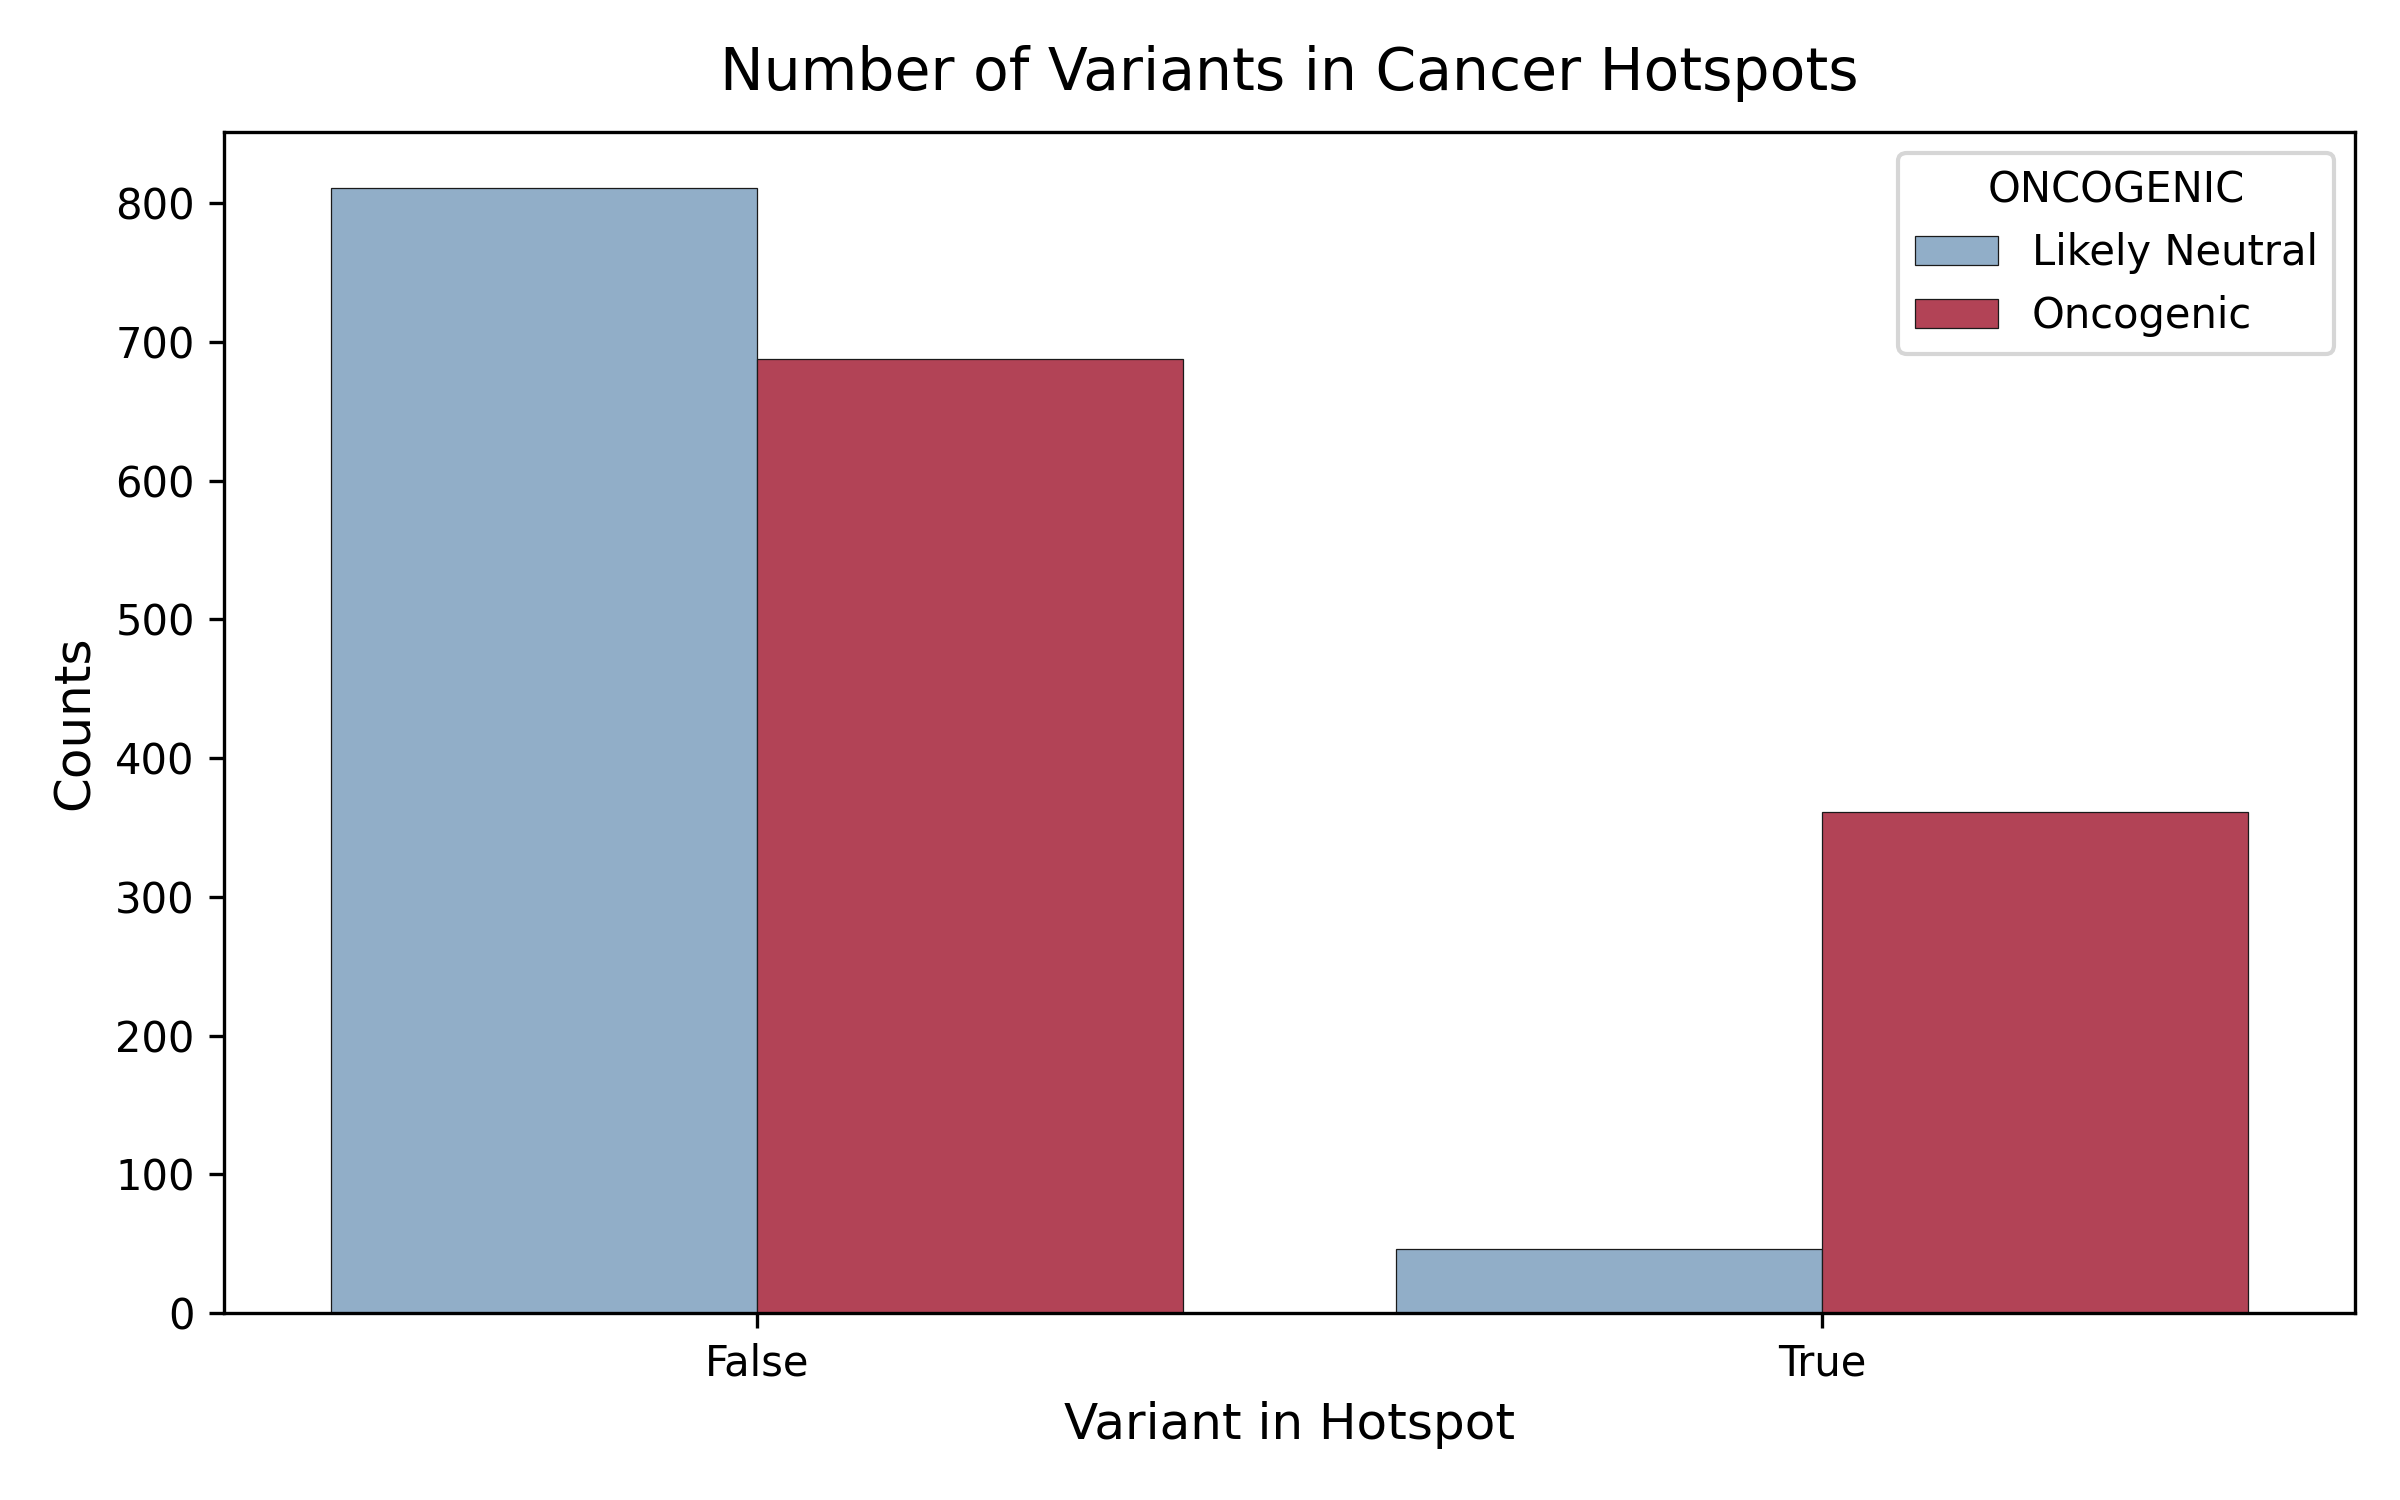
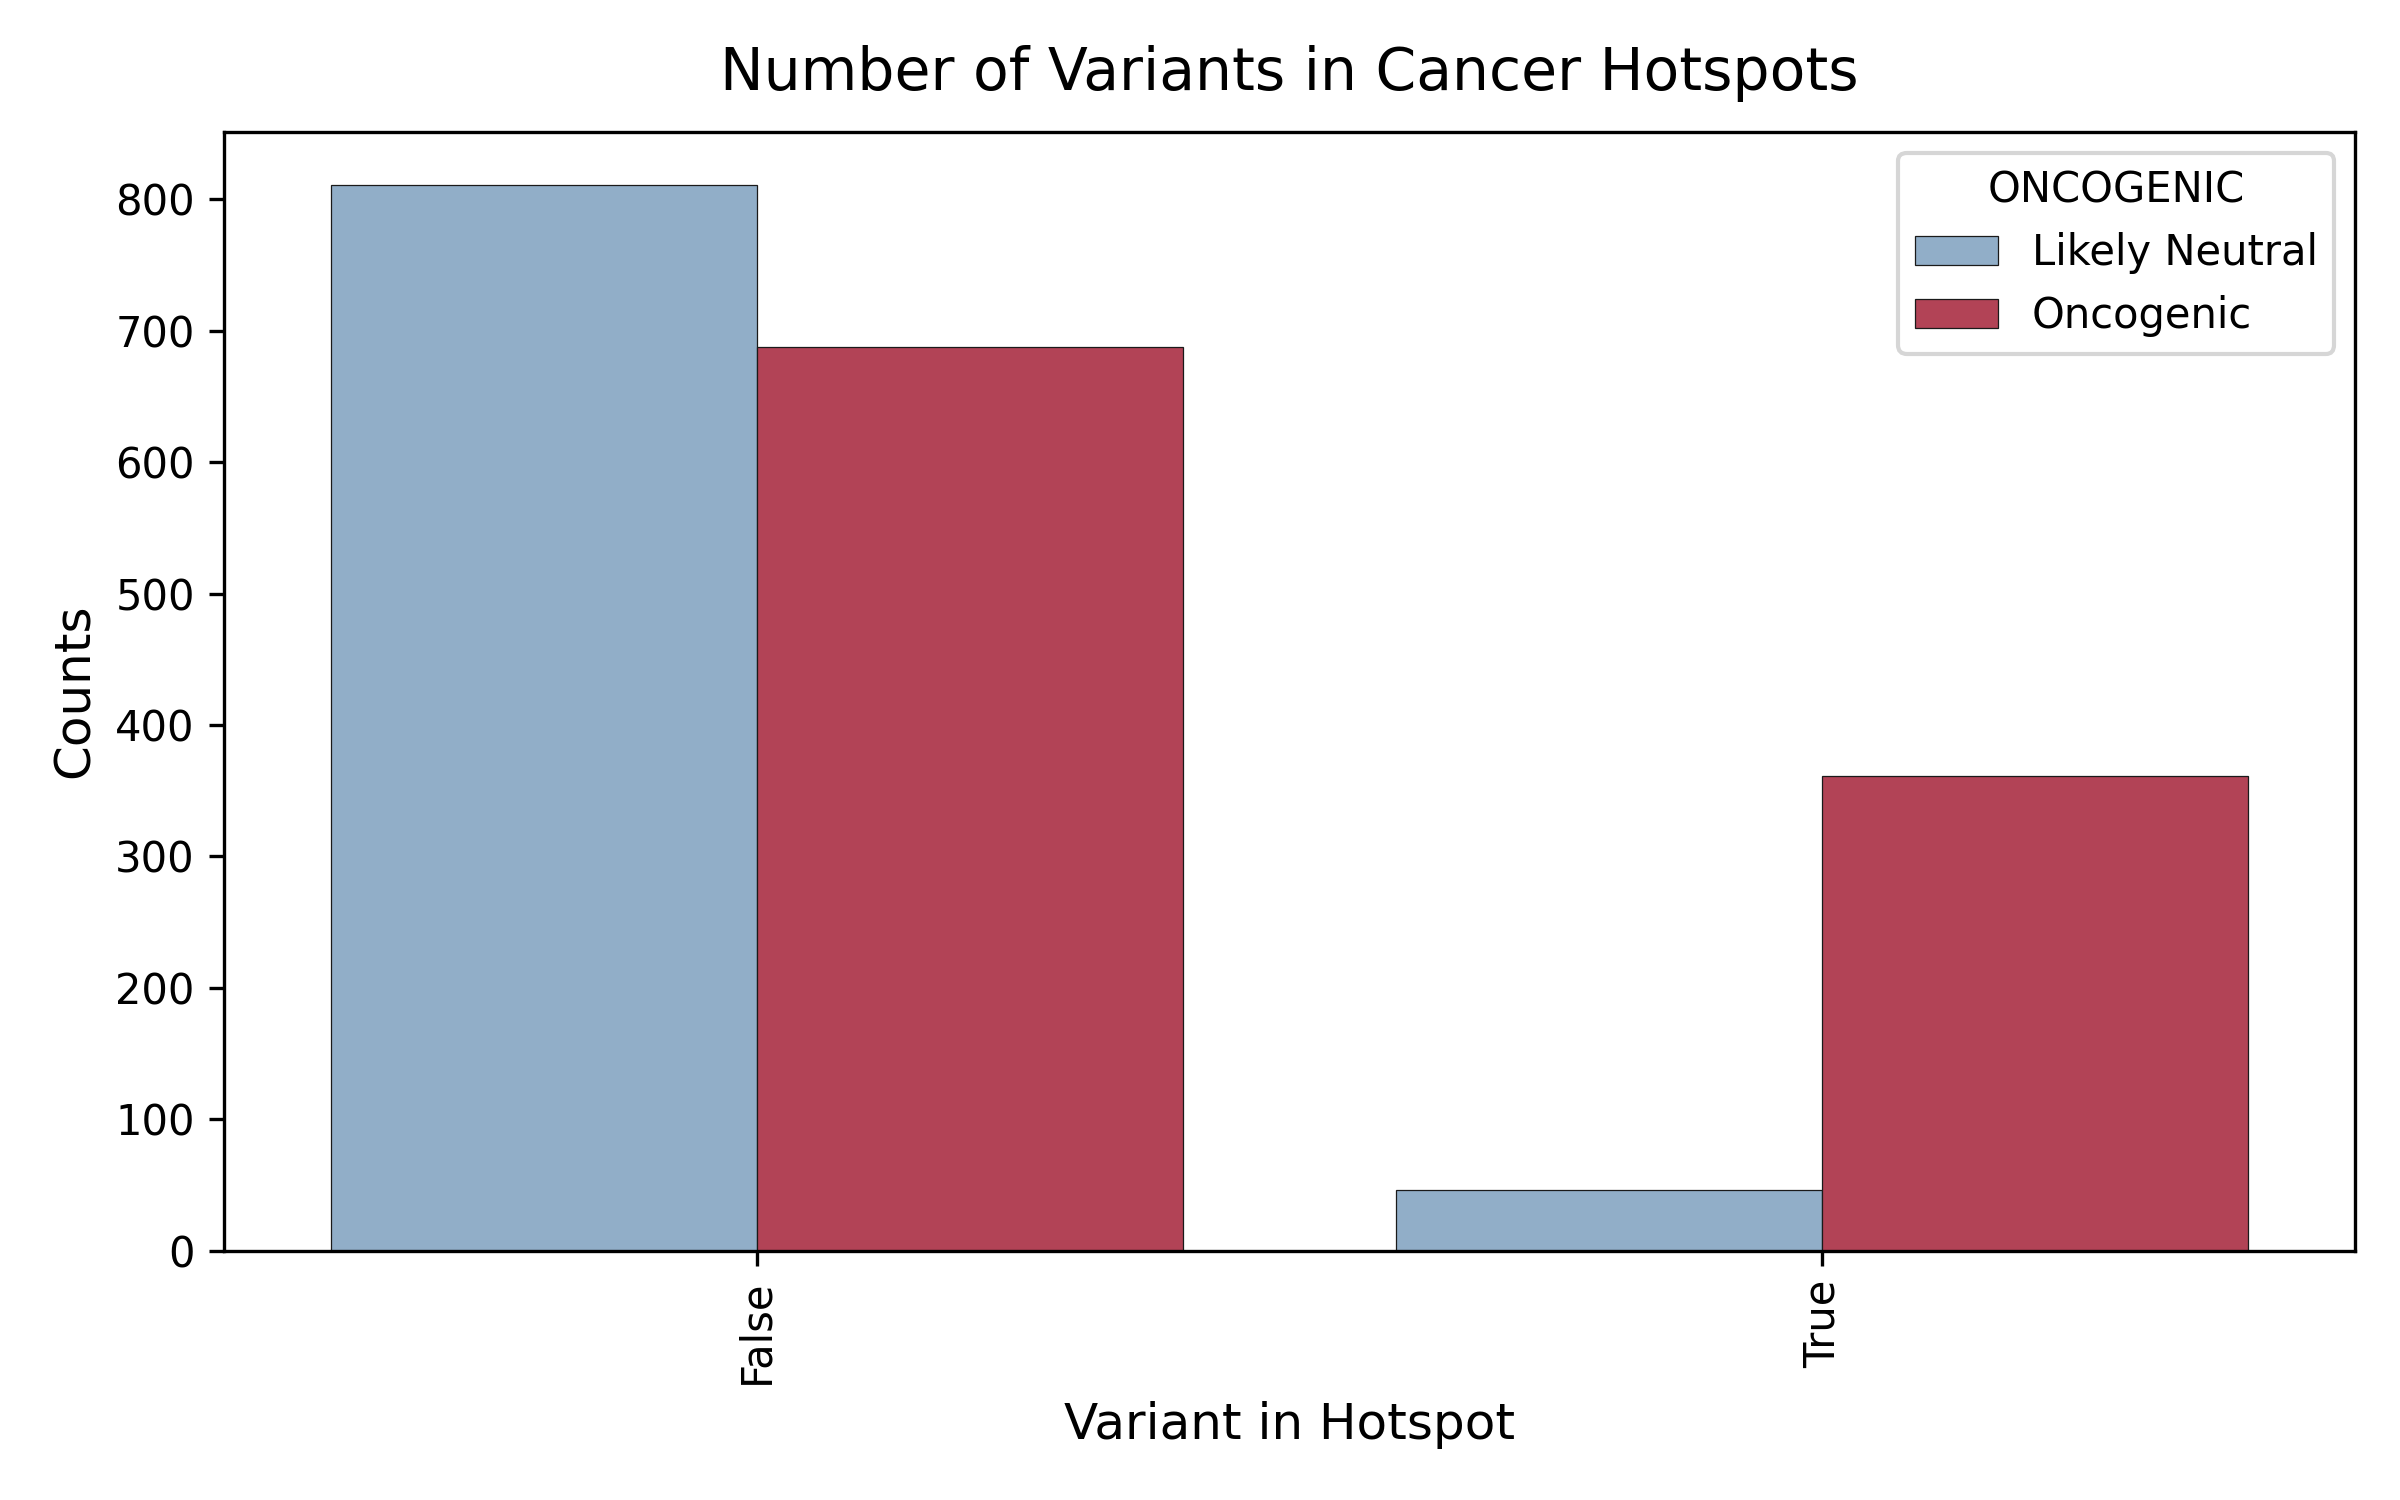
edit protein_domains.py

diff --git a/scripts/EDA/protein_domains.py b/scripts/EDA/protein_domains.py
@@ -14,9 +14,8 @@ Major outputs:
   1. Variant distribution inside/outside protein domains 
   2. Top domains (by variant count)
   3. Top domains enriched for oncogenic variants 
-  4. Heatmap of variants across top domains and top genes 
-  5. Driver genes enriched in protein domains 
-  6. Heatmap of oncogenic variants across top domains and top genes
+  4. Heatmap of oncogenic fractions across top domains and top genes 
+
 
 All plots are saved in:
     plots/proteindomains
@@ -247,8 +246,6 @@ gene_domain_class_counts = (
   .size() 
   .reset_index(name="Count") 
 )
-print("Preview of the gene x domain count table:\n")
-print(gene_domain_class_counts.head(), "\n")
 
 gene_domain_matrix = gene_domain_class_counts.pivot_table(
     index=["Hugo_Symbol", "DOMAIN_NAME"],
@@ -266,7 +263,7 @@ gene_domain_matrix["Oncogenic_Fraction"] = (
   gene_domain_matrix["Oncogenic"] / gene_domain_matrix["Total"]
 ).fillna(0) 
 
-# Filter to top domains 
+# Extract top domains
 top_domains = (
     gene_domain_matrix.groupby("DOMAIN_NAME")["Total"]
     .sum() 
@@ -280,7 +277,7 @@ combined_top = gene_domain_matrix[
     gene_domain_matrix["DOMAIN_NAME"].isin(top_domains)
 ]
 
-# Filter to top genes 
+# Extract top genes
 top_genes_combined = (
     combined_top.groupby("Hugo_Symbol")["Total"]
     .sum()
@@ -297,6 +294,9 @@ heatmap_combined = combined_top.pivot(
     columns="DOMAIN_NAME",
     values="Oncogenic_Fraction"
 ).fillna(0)
+
+print("Preview of oncogenic fraction data:")
+print(heatmap_combined.head())
 
 # Plot heatmap 
 plt.figure(figsize=(7,6))
@@ -317,109 +317,6 @@ plt.savefig("plots/proteindomains/heatmap_oncogenic_fraction.png", dpi=300, bbox
 plt.show()
 
 print("Heatmap complete! Saved as 'plots/proteindomains/heatmap_oncogenic_fraction.png'")
-
-# ------------------------------------------------------------
-# Identify Driver Genes Enriched in Protein Domains
-# ------------------------------------------------------------
-
-# When we look at a specific protein domain, how many of the oncogenic mutations comes from each gene? 
-
-print("-"*50)
-print("Identifying oncogenic driver genes enriched in protein domains..\n")
-
-# Extract oncogenic variants from the exploded df 
-oncogenic_variants = variants_domains[variants_domains["ONCOGENIC"] == "Oncogenic"].copy()
-
-# Count oncogenic variants per gene x domain 
-# "How many oncogenic variants does each gene have in each domain?"
-gene_domain_counts = (
-    oncogenic_variants.groupby(["Hugo_Symbol", "DOMAIN_NAME"])
-    .size()
-    .reset_index(name="Variant_Count")
-    .sort_values("Variant_Count", ascending=False)
-)
-
-# Compute total oncogenic variants per domain 
-domain_oncogenic_totals = (
-    gene_domain_counts.groupby("DOMAIN_NAME")["Variant_Count"]
-    .sum()
-    .reset_index(name="Domain_Total")
-)
-
-# Compute the fraction contributed per gene 
-gene_domain_fraction = gene_domain_counts.merge(
-  domain_oncogenic_totals, on="DOMAIN_NAME")
-
-gene_domain_fraction["Fraction_of_Domain"] = (
-    gene_domain_fraction["Variant_Count"] / gene_domain_fraction["Domain_Total"]
-)
-
-print("Preview of oncogenic driver genes:\n")
-print(gene_domain_fraction.head(5), "\n")
-
-# ------------------------------------------------------------
-# Top Domains x Top Genes 
-# (Oncogenic variants only)
-# ------------------------------------------------------------
-
-print("-"*50)
-print("Plotting heatmap of top domains x top genes (oncogenic variants)...\n")
-
-n_genes = 15
-n_domains = 15
-
-# Top domains by total oncogenic variants 
-top_domains = (
-  gene_domain_fraction.groupby("DOMAIN_NAME")["Variant_Count"]
-  .sum()
-  .sort_values(ascending=False) 
-  .head(n_domains)
-  .index
-)
-
-# Filter to top domains
-gene_domain_fraction_top = gene_domain_fraction[gene_domain_fraction["DOMAIN_NAME"].isin(top_domains)]
-
-# Pick top genes across top domains 
-top_genes = (
-  gene_domain_fraction_top.groupby("Hugo_Symbol")["Variant_Count"]
-  .sum() 
-  .sort_values(ascending=False) 
-  .head(n_genes) 
-  .index
-)
-
-# Filter to top genes 
-gene_domain_fraction_top = gene_domain_fraction_top[gene_domain_fraction_top["Hugo_Symbol"].isin(top_genes)]
-
-# Pivot for heatmap 
-heatmap_df = gene_domain_fraction_top.pivot(
-  index="Hugo_Symbol",
-  columns="DOMAIN_NAME",
-  values="Fraction_of_Domain"
-).fillna(0) 
-
-
-# Plot heatmap
-plt.figure(figsize=(7,6))
-sns.heatmap(heatmap_df, 
-            cmap="Reds", 
-            vmin=0, 
-            vmax=1,
-            linewidths=0.2)
-
-plt.title("Top genes x Top domains (Oncogenic Variants)", fontsize=14, pad=12)
-plt.xlabel("Domain Name", fontsize=12)
-plt.ylabel("Gene (Hugo Symbol)", fontsize=12)
-plt.xticks(fontsize=9)
-plt.yticks(fontsize=9)
-
-plt.tight_layout()
-plt.savefig("plots/proteindomains/heatmap_oncogenic_top.png", dpi=300, bbox_inches="tight")
-plt.show()
-
-print("Plotting complete! Plot saved as 'plots/proteindomains/heatmap_oncogenic_top.png'\n")
-print("-"*50)
 
 
 print("\nProtein domain analysis complete!🥳🥳\n")

diff --git a/scripts/EDA/germline_proximity.py b/scripts/EDA/germline_proximity.py
@@ -1,10 +1,10 @@
 
 # ====================================================================
-# Variants Germline Proximity Analysis 
+# Germline Proximity Analysis 
 # ====================================================================
 
 """
-Script: variants_with_germline_proximity.py
+Script: germline_proximity.py
 Author: Ane Kleiven
 
 This script performs a multi-step analysis to explore how somatic cancer
@@ -14,7 +14,7 @@ known pathogenic germline variants
 Major outputs:
 --------------
 1. Number of variants with a germline distance
-2. Simple descriptive statistics 
+2. Descriptive statistics 
 3. Distribution of germline distance between classes 
 5. Germline distance distributions per gene (top oncogenic genes)
 
@@ -88,7 +88,7 @@ print("Descriptive statistics germline distances:")
 print(stats_summary)
 
 # ------------------------------------------------------------
-# Prepare filtered plot data (used across all figures below)
+# Prepare filtered plot data
 # ------------------------------------------------------------
 
 wanted_classes = ["Oncogenic", "Likely Neutral"]
@@ -235,17 +235,17 @@ for gene in top_genes_full.head(20).index:
     print(f"\nPlotting complete! Plot saved as 'plots/germline_proximity/dist_{gene}.png'.\n")
 
 # ------------------------------------------------------------
-# Save filtered germline variants in top genes to .tsv 
+# Save variants with germline distances in top genes to .tsv 
 # ------------------------------------------------------------
 
-print("Saving filtered germline variants to .tsv file..")
+print("Saving variants with germline distances to .tsv file..")
 top_20_genes = top_genes_full.head(20).index.tolist() 
 top_20_variants = variants_plot[variants_plot["Hugo_Symbol"].isin(top_20_genes)]
 
 # save as .tsv 
 output_path = "/home/anekl/git/master/explore_cancer_variants/output/germline_dist_filtered.tsv"
 top_20_variants.to_csv(output_path, sep="\t", index=False) 
-print(f"Filtered germline variant file saved as: \n {output_path}")
+print(f"Filtered variant file saved as: \n {output_path}")
 print("-"*30)
 
 

diff --git a/scripts/EDA/cancerhotspots.py b/scripts/EDA/cancerhotspots.py
@@ -180,7 +180,7 @@ sns.barplot(data=counts,
 plt.title("Number of Variants in Cancer Hotspots", fontsize=14, pad=10)
 plt.xlabel("Variant in Hotspot", fontsize=12)
 plt.ylabel("Counts", fontsize=12) 
-plt.xticks(rotate=90, fontsize=10)
+plt.xticks(rotation=90, fontsize=10)
 
 plt.tight_layout() 
 plt.savefig("plots/cancerhotspots/variants_in_hotspots.png", dpi=300)
@@ -242,7 +242,7 @@ onco_genes = (oncogenic_hotspots
               .sort_values("Hotspot_Variant_Count", ascending=False)
 )
 
-print("Example of genes with a high number of variants in cancer hotspots:")
+print("Example of genes with a high number of oncogenic variants in cancer hotspots:")
 print(onco_genes.head(), "\n")
 
 # ------------------------------------------------------------
